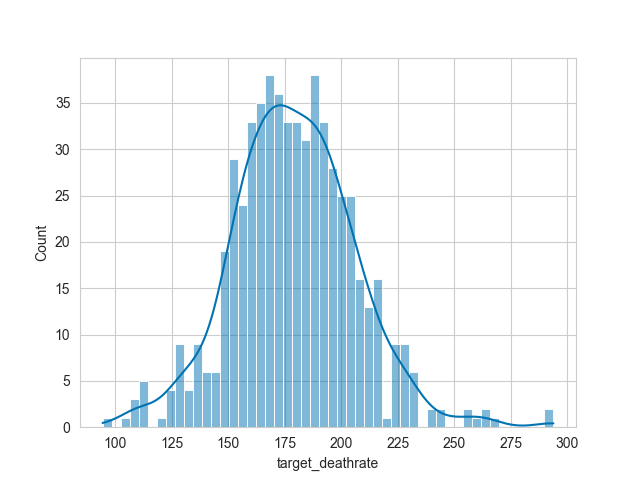
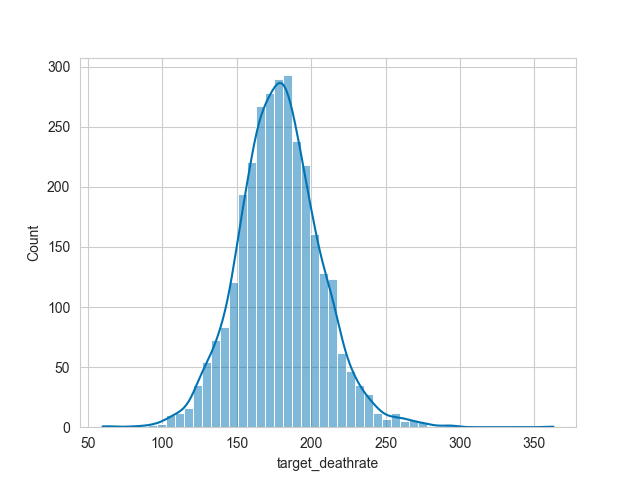
update figure

diff --git a/main.py b/main.py
@@ -23,19 +23,19 @@ cancereg_data['pctprivatecoveragealone'] = cancereg_data['pctprivatecoveragealon
 merged_data = pd.merge(avghouseholdsize_data, cancereg_data, on='geography', how='inner')
 
 #! Plot the data
-##Target deathrate
-# sns.histogram
-# sns.histplot(merged_data['target_deathrate'], bins=50, kde=True)
-# plt.show()
+###Target deathrate
+# # sns.histogram of target_deathrate
+sns.histplot(merged_data['target_deathrate'], bins=50, kde=True)
+plt.show()
 
-# # sns.boxplot of target_deathrate
-# sns.boxplot(data=merged_data, y='target_deathrate', palette='Set2')
-# plt.show()
+# sns.boxplot of target_deathrate
+sns.boxplot(data=merged_data, y='target_deathrate', palette='Set2')
+plt.show()
 
-# # sns.boxplot of target_deathrate with binnedinc
-# sns.boxplot(data=merged_data, x='binnedinc', y='target_deathrate', hue='binnedinc', palette='Set2', legend=False)
-# plt.show()
+# sns.boxplot of target_deathrate with binnedinc
+sns.boxplot(data=merged_data, x='binnedinc', y='target_deathrate', hue='binnedinc', palette='Set2', legend=False)
+plt.show()
 
-# # sns.pairplot
-# sns.pairplot(merged_data[['pctpubliccoveragealone', 'povertypercent', 'incidencerate', 'pctpubliccoverage', 'target_deathrate']])
-# plt.show()
+# sns.pairplot
+sns.pairplot(merged_data[['pctpubliccoveragealone', 'povertypercent', 'incidencerate', 'pctpubliccoverage', 'target_deathrate']])
+plt.show()
